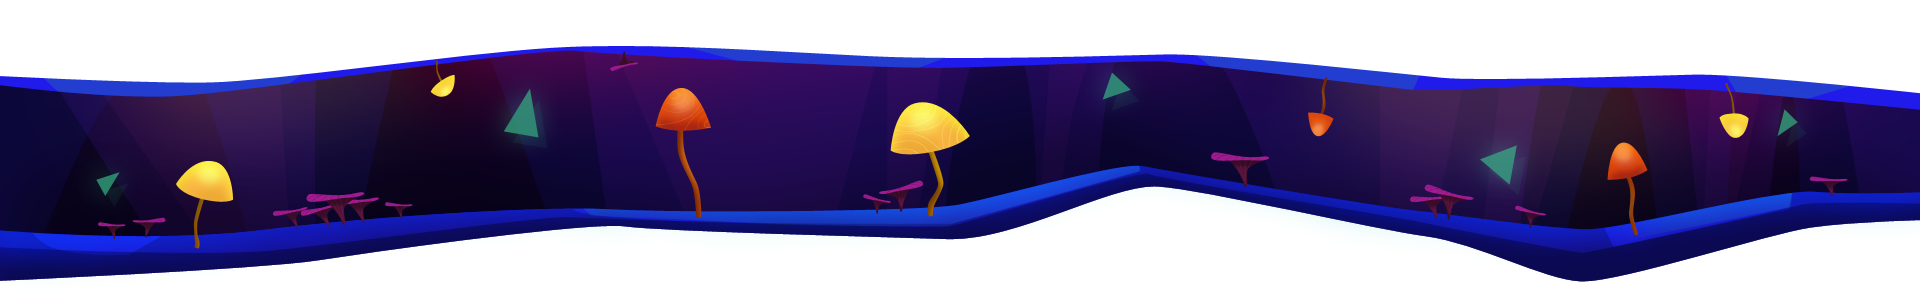
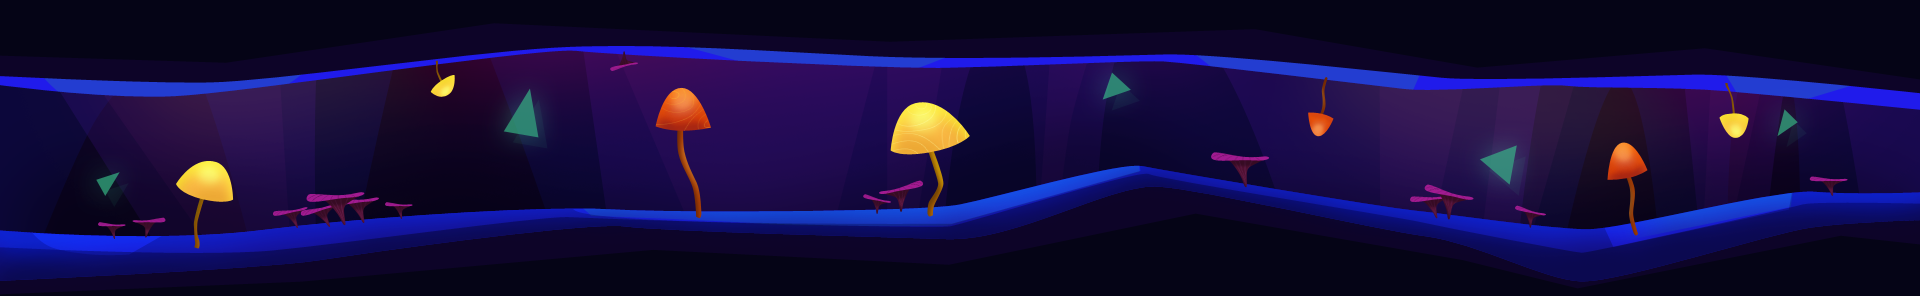
primer backup

diff --git a/index.html b/index.html
@@ -1,30 +1,52 @@
 <!doctype html>
 <html>
-    <head>
-        <link href="node_modules/bootstrap/dist/css/bootstrap.css" rel="stylesheet" type="text/css"/>
-        <link href="node_modules/bootstrap/dist/css/bootstrap-theme.css" rel="stylesheet" type="text/css"/>
-        <link href="styles/mar.css" rel="stylesheet" type="text/css"/>
-    </head>
-    <body>
-        <!--<div id="container"><!--PARALLAX
-		  <div id="parallax">
-				<div class="parallax_layer">
-                <video id="my-video" width="1270" height="800" preload="metadata" autoplay loop>
-                    <source src="http://starloopstudios.com/wp-content/uploads/2016/01/WebBannerVideo-1080-25Mbps.mp4" type="video/mp4"></video></div>
-                <div class="parallax_layer" id="layer-0"></div>
-                <div class="parallax_layer" id="layer-1"></div>
-				<div class="parallax_layer" id="layer-2"></div>
-			</div>-->
+
+<head>
+    <link href="node_modules/bootstrap/dist/css/bootstrap.css" rel="stylesheet" type="text/css" />
+    <link href="node_modules/bootstrap/dist/css/bootstrap-theme.css" rel="stylesheet" type="text/css" />
+    <link href="styles/mar.css" rel="stylesheet" type="text/css" />
+    <meta name="viewport" content="width=device-height">
+</head>
+
+<body>
+    <div id="container">
+        <!--PARALLAX-->
+        <div id="parallax">
+
+            <div class="parallax_layer" id="layer-0"></div>
+            <div class="parallax_layer" id="layer-1">
+                <img id="goldfishR" src="img/goldfishR.png">
+                <img id="goldfishL" src="img/goldfishL.png">
+            </div>
+            <div class="parallax_layer" id="layer-2"></div>
+            <div class="parallax_layer" id="layer-3"></div>
+            <div class="parallax_layer" id="layer-4"></div>
+            <div class="parallax_layer" id="layer-5"></div>
+            <div class="parallax_layer" id="layer-6"></div>
+
         </div>
-        <section id="partOne"></section>
-        <section id="partTwo"></section>
-        <section id="partThree"></section>
-        <section id="partFour"></section>
-        <footer>
-            <img id="mushspark" src="img/mushrooms_1.png">
-        </footer>
-        <script src="node_modules/jquery/dist/jquery.js" type="text/javascript"></script>
-        <script src="node_modules/bootstrap/dist/js/bootstrap.js" type="text/javascript"></script>
-        <script src="scripts/mar.js" type="text/javascript"></script>
-    </body>
+    </div>
+
+    <div id="main">
+        <div class="sections" id="bio">
+            <img id="name" src="img/goldfishL.png">
+            <p>Lorem ipsum dolor sit amet, consectetuer adipiscing elit. Aenean commodo ligula eget dolor. Aenean massa. Cum sociis natoque penatibus et magnis dis parturient montes, nascetur ridiculus mus. Donec quam felis, ultricies nec, pellentesque eu, pretium quis, sem. Nulla consequat massa quis enim. Donec pede justo, fringilla vel, aliquet nec, vulputate eget, arcu. In enim justo, rhoncus ut, imperdiet a, venenatis vitae, justo. Nullam dictum felis eu pede mollis pretium. Integer tincidunt. Cras dapibus. Vivamus elementum semper nisi. Aenean vulputate eleifend tellus. Aenean leo ligula, porttitor eu, consequat vitae, eleifend ac, enim. Aliquam lorem ante, dapibus in, viverra quis, feugiat a, tellus. Phasellus viverra nulla ut metus varius laoreet. Quisque rutrum. Aenean imperdiet. Etiam ultricies nisi vel augue. Curabitur ullamcorper ultricies nisi. Nam eget dui. Etiam rhoncus. Maecenas tempus, tellus eget condimentum rhoncus, sem quam semper libero, sit amet adipiscing sem neque sed ipsum. Nam quam nunc, blandit vel, luctus pulvinar, hendrerit id, lorem. Maecenas nec odio et ante tincidunt tempus. Donec vitae sapien ut libero venenatis faucibus. Nullam quis ante. Etiam sit amet orci eget eros faucibus tincidunt. Duis leo. Sed fringilla mauris sit amet nibh. Donec sodales sagittis magna. Sed consequat, leo eget bibendum sodales, augue velit cursus nunc,</p>
+        </div>
+        <div class="sections" id="ilustration">
+            <h1>Illustration &#38; Concept Art</h1>
+        </div>
+        <div class="sections" id="animation"></div>
+        <div class="sections" id="app_videogames"></div>
+    </div>
+    <footer>
+        <img id="mushSpark" src="img/mushrooms_1.png">
+    </footer>
+    <script src="node_modules/jquery/dist/jquery.js" type="text/javascript"></script>
+    <script src="node_modules/bootstrap/dist/js/bootstrap.js" type="text/javascript"></script>
+    <script src="scripts/mousewheel.js" type="text/javascript"></script>
+    <script src="scripts/smoothscroll.js" type="text/javascript"></script>
+    <script src="scripts/parallaxIntro.js" type="text/javascript"></script>
+    <script src="scripts/mar.js" type="text/javascript"></script>
+</body>
+
 </html>

diff --git a/styles/mar.css b/styles/mar.css
@@ -1,13 +1,21 @@
-body{
-    background-color: #050416;
+*
+{
+	margin: 0;
+	padding: 0;
+	outline: 0;
 }
 
-/*PARALLAX*/
+body {
+    background-color: white; /*#050416*/
+    color: white;
+}
 
+/*-----------------------------PARALLAX-------------------------------*/
 #parallax
 {
 	position: relative;
-	height: 840px;
+	width: 100%;
+    height: 730px;
 	z-index: 10;
 
 }
@@ -15,11 +23,11 @@ body{
 .parallax_layer
 {
 	background-position: bottom center;
-	background-size: 3000px 455px;
-	background-repeat: repeat-x;
+	background-size: cover;
+	background-repeat: no-repeat;
 	position: fixed;
-	height: 840px;
 	width: 100%;
+    height: 730px;
 	-webkit-transform: translate3d(0, 0, 0);
 	-moz-transform: translate3d(0, 0, 0);
 	-ms-transform: translate3d(0, 0, 0);
@@ -32,59 +40,124 @@ body{
 	position: absolute;
 }
 
-#layer-0 { background-image: url("img/parallax0.png"); }
-#layer-1 { background-image: url("img/parallax1.png"); }
-#layer-2 { background-image: url("img/parallax2.png"); }
-#layer-3 { background-image: url("img/parallax3.png"); }
-#layer-4 { background-image: url("img/parallax4.png"); }
-#layer-5 { background-image: url("img/parallax5.png"); }
+#layer-0 { background-image: url("/img/header.png"); }
+
+#layer-1 
+{ 
+    background-color: transparent;
+    top: 0px;
+}
+
+#goldfishR{
+    position: absolute;
+    margin-left: -137px;
+    margin-top: 250px;
+    width: 136px;
+    height: 63px;
+}
+
+#goldfishL{
+    position: absolute;
+    margin-right: 100px;
+    margin-top: 450px;
+    width: 190px;
+    height: 102px;
+}
+
+#layer-2 
+{ 
+    background-image: url("/img/p0.png");
+    top: 0px;
+}
+#layer-3 
+{ 
+    background-image: url("/img/p1.png");
+    top: 0px;
+}
+#layer-4 
+{ 
+    background-image: url("/img/p2.png"); 
+    top: 0px;
+}
+#layer-5 
+{ 
+    background-image: url("/img/p3.png"); 
+    top: 0px;
+}
 
 #layer-6
 {
-	background-color: transparent;
-	background-image: url("img/parallax6.png");
-	background-position: center top;
-	background-repeat: no-repeat;
-	background-image: url("img/parallax6.png"), -webkit-linear-gradient(top, transparent 0, transparent 250px, #2D112B 250px);
-	background-image: url("img/parallax6.png"), -moz-linear-gradient(top, transparent 0, transparent 250px, #2D112B 250px);
-	background-image: url("img/parallax6.png"), -ms-linear-gradient(top, transparent 0, transparent 250px, #2D112B 250px);
-	background-image: url("img/parallax6.png"), -o-linear-gradient(top, transparent 0, transparent 250px, #2D112B 250px);
-	background-image: url("img/parallax6.png"), linear-gradient(top, transparent 0, transparent 250px, #2D112B 250px);
-	background-position: center top, center bottom;
-	background-repeat: no-repeat, no-repeat;
-	height: 655px;
-	top: 385px;
-	margin-bottom: -255px;	
+	background-image: url("/img/p4.png");
+	width: 100%;
+    height: 730px;
+    top: 0px;
 }
 
-/*SECTIONS*/
 
-section {
-    height: 500px
+/*------------------------SECTIONS------------------------------*/
+
+
+#main
+{
+	position: relative;
+	width: 100%;
+    z-index: 15;
+	background-color: #2D112B;
+	-webkit-transform: translate3d(0px, 0px, 0px);
+	-moz-transform: translate3d(0px, 0px, 0px);
+	-ms-transform: translate3d(0px, 0px, 0px);
+	-o-transform: translate3d(0px, 0px, 0px);
+	transform: translate3d(0px, 0px, 0px);
+/* 	overflow-x: hidden; */
 }
 
-#partOne {
-    background-color: aqua;
-    opacity: 0.1;
+.sections {
+    position: relative;
+    height: 730px;
+	width: 100%;
 }
 
-#partTwo {
-    background-color: coral;
-    opacity: 0.1;
+h1{
+    padding: 30px;
 }
 
-#partThree {
-    background-color: salmon;
-    opacity: 0.1;
+/*--------------------BIO------------------*/
+
+#bio{
+    background-color: #050416;
+    text-align: center;
+}
+
+#name{
+    padding: 50px; 
+}
+
+p{
+    font-size: 16px;
+    padding: 70px;
+}
+
+/*---------------------ILUSTRATION-------------*/
+#ilustration{
+    background-color: #050416;
 }
 
 /*FOOTER*/
 
 footer {
     background-image: url(/img/mushrooms_2.png);
-    height: 296px;
+    background-size: 100%;
+    position: relative;
+    z-index: 15;
+    top: 0;
+    left: 0;
+    width: 100%;
+    }
+
+#mushSpark{
+    position: relative;
+    top: 0;
+    left: 0;
+    width: 100%;
 }
 
-#mushspark{
-    height: 296px;
-}

diff --git a/scripts/parallaxIntro.js b/scripts/parallaxIntro.js
@@ -1,7 +1,6 @@
 var body = document.body;
-var container = document.getElementById("container");
-var blackout = document.getElementById("blackout");
-var firewatchlogo = document.getElementById("firewatchlogo");
+var container = document.getElementById('container');
+var viewportHeight = window.innerHeight;
 
 var isTouchscreen;
 var scrollVal = 0;
@@ -14,55 +13,17 @@ var layer4 = document.getElementById("layer-4");
 var layer5 = document.getElementById("layer-5");
 var layer6 = document.getElementById("layer-6");
 		
-function loadTrailer(url)
-{
-	var video = document.createElement('div');
-	video.setAttribute("id", "video");
-
-	var trailer = document.createElement('iframe');
-	trailer.setAttribute('src', url);
-	trailer.setAttribute('width', '853');
-	trailer.setAttribute('height', '480');
-	trailer.setAttribute('frameborder', '0');
-	trailer.setAttribute('webkitallowfullscreen', '1');
-	trailer.setAttribute('mozallowfullscreen', '1');
-	trailer.setAttribute('allowfullscreen', '1');	
-	
-	var button = document.createElement('span');
-	button.setAttribute('id', 'trailerButton');
-	button.innerHTML = "Continue";
-	
-	blackout.appendChild(video);
-	video.appendChild(trailer);
-	video.appendChild(button);
-	
-	body.setAttribute('class', 'trailer');
-}
-
-function unloadTrailer()
-{
-
-	
-	body.setAttribute('class', 'noTrailer');
-	
-	while (blackout.firstChild)
-	{
-		blackout.removeChild(blackout.firstChild);
-	}
-		
-}
 
 function setup()
 {
 	var platform = navigator.platform.toLowerCase();
 	var userAgent = navigator.userAgent.toLowerCase();
 	
-	if ( platform.indexOf('ipad') != -1  ||  platform.indexOf('iphone') != -1 ) 
+    if ( platform.indexOf('ipad') != -1  ||  platform.indexOf('iphone') != -1 ) 
 	{
 		isTouchscreen = 1;
 		container.setAttribute("class", "touch");
 		body.style.backgroundImage = 'none';
-		firewatchlogo.style.position = 'absolute';
 	}
 	
 	else if (platform.indexOf('win32') != -1 || platform.indexOf('linux') != -1)
@@ -80,7 +41,7 @@ function setup()
 		$.srSmoothscroll();
 		isTouchscreen = 0;
 	}
-
+    
 }
 
 function parallaxy()
@@ -170,3 +131,5 @@ function throttle(callback, limit) {
 		}
 	}
 }
+
+

diff --git a/scripts/mar.js b/scripts/mar.js
@@ -1,5 +1,7 @@
 $(document).ready(function() {
+    $('#goldfishR').animate({left:'2000px'},42000);
+    $('#goldfishL').animate({right:'2000px'},50000);
     $('footer').hover(function() {
-        $('#mushspark').fadeToggle('slow');
+        $('#mushSpark').fadeToggle('slow');
     });
 });
